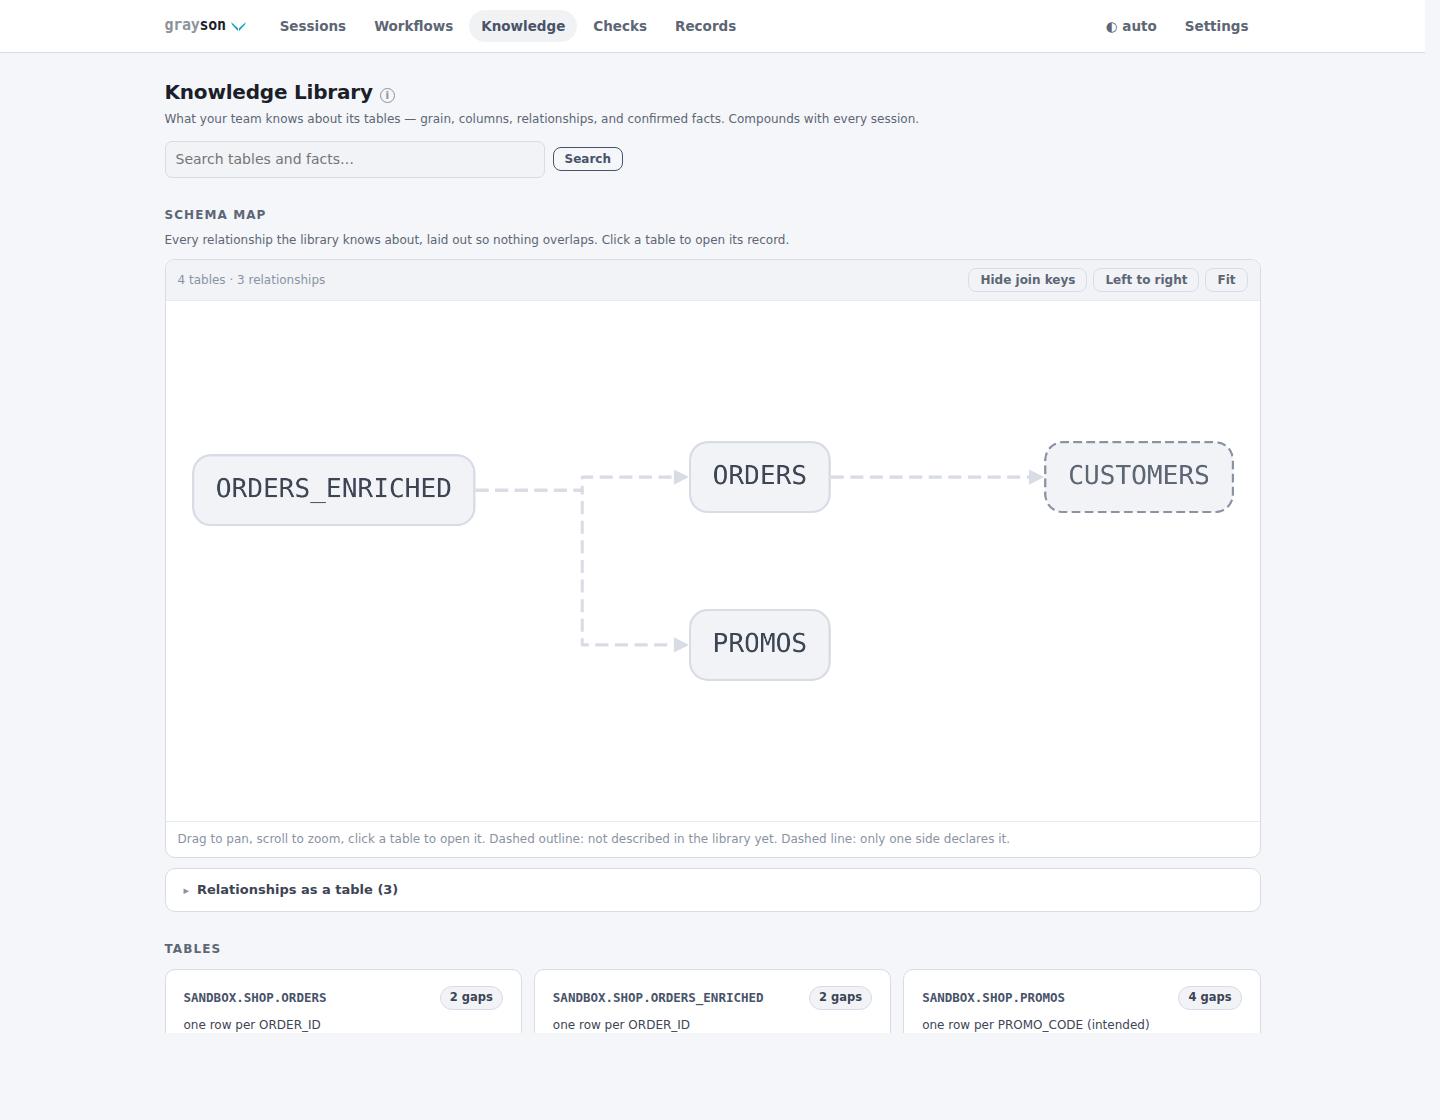
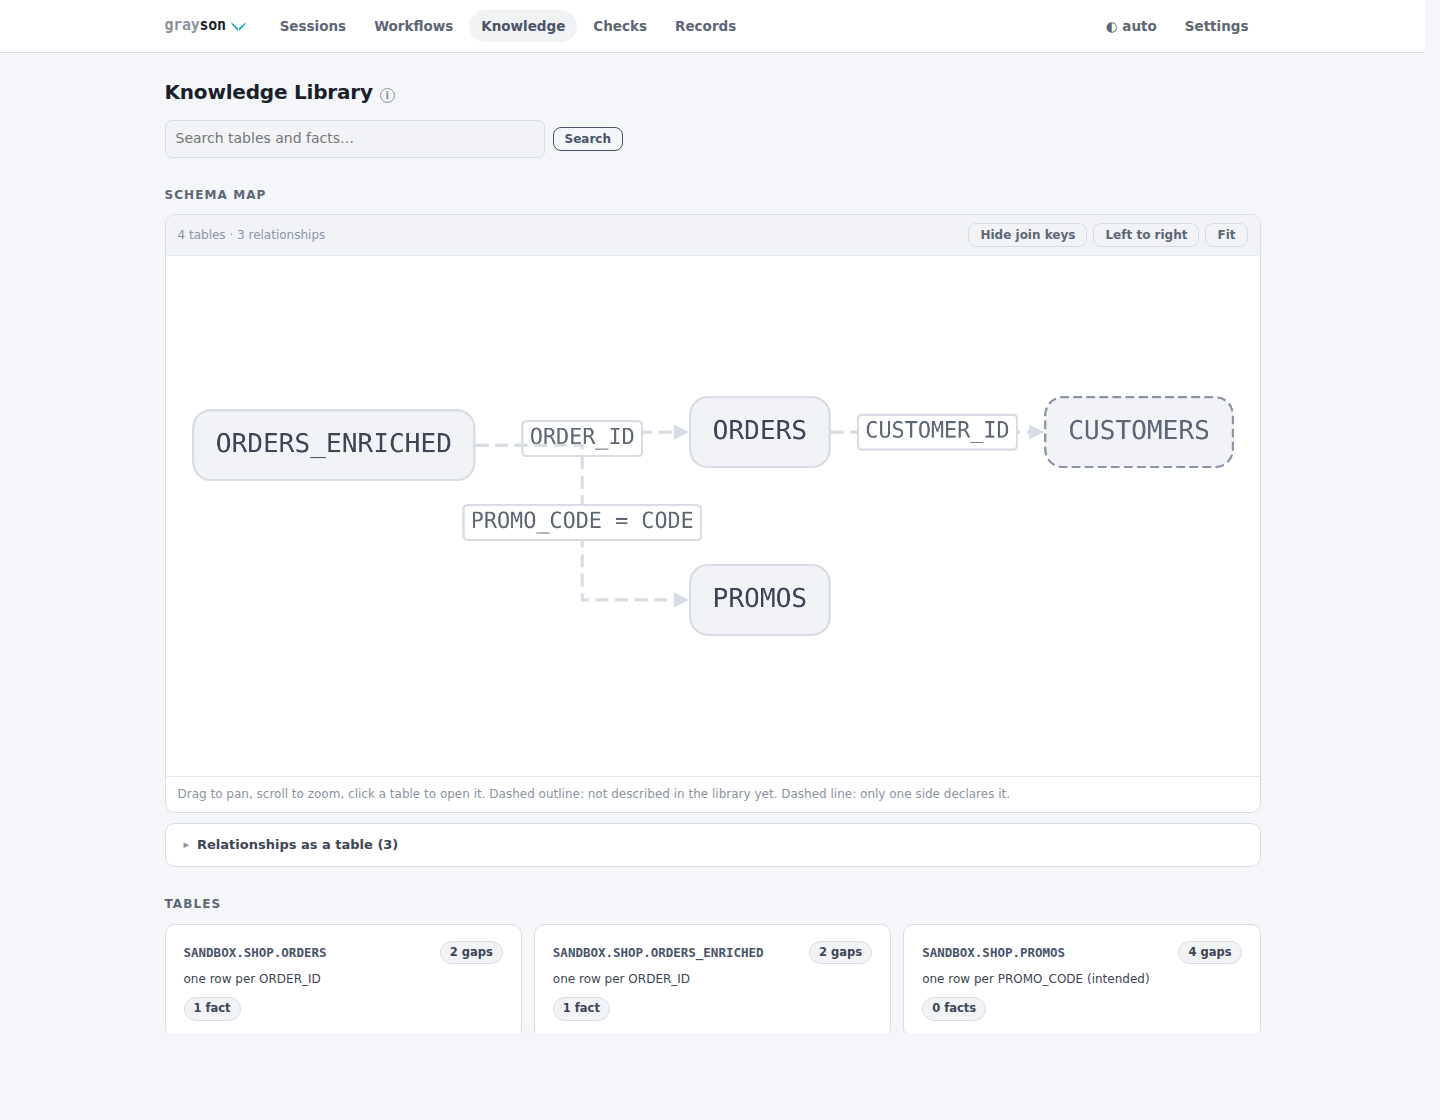
Docs screenshots regenerated for the redesigned console
All six page pairs under docs/img are re-shot from a real sandbox
workspace: a bug-hunter session run with real queries against the seeded
warehouse (charts, an open intervention, evidence-gated checkpoints),
knowledge docs with relationships, ingested external checks, and a forked
team workflow, served by the actual console and captured in both themes.
docs/img/regenerate.py rebuilds the set so the images can follow the UI.

Two layout fixes surfaced while shooting: the gallery card rule now
outranks the generic linked-card rule, so metas sit at card bottoms again;
the session's scope form takes its natural width instead of a full row.

Claude-Session: https://claude.ai/code/session_018Z5a52MQfPQdAJtqR4C6b1

diff --git a/src/grayson/ui/templates/base.html b/src/grayson/ui/templates/base.html
@@ -396,7 +396,7 @@ h1 > .help > .h-pop, h2 > .help > .h-pop { left: 0; transform: none;
 .kv { display: flex; gap: 8px; flex-wrap: wrap; }
 .kv .item { background: var(--panel2); border: 1px solid var(--border-soft);
   border-radius: var(--radius-sm); padding: 5px 10px; font-size: 12.5px; }
-.kv > form.item { flex: 1 1 auto; }   /* a control strip moves to a new row whole, then fills it */
+.kv > form.item { flex: 0 1 auto; }   /* a control strip wraps to a new row whole, at its own width */
 .kv .item b { color: var(--muted); font-weight: 600; font-size: 11px;
   text-transform: uppercase; letter-spacing: .06em; margin-right: 5px; }
 .chip { display: inline-block; background: var(--panel2); border: 1px solid var(--border-soft);

diff --git a/src/grayson/ui/templates/workflows.html b/src/grayson/ui/templates/workflows.html
@@ -2,7 +2,7 @@
 {% block title %}grayson — workflows{% endblock %}
 {% block head %}
 <style>
-.wfcard { display: flex; flex-direction: column; gap: 7px; margin-bottom: 0; }
+.card.wfcard { display: flex; flex-direction: column; gap: 7px; margin-bottom: 0; }
 .wfcard .desc { color: var(--ink-2); font-size: 13px; flex: 1; }
 .wfcard .meta { display: flex; gap: 8px; flex-wrap: wrap; align-items: center;
   border-top: 1px solid var(--border-soft); padding-top: 9px; font-size: 12px;

diff --git a/src/grayson/ui/templates/session.html b/src/grayson/ui/templates/session.html
@@ -100,7 +100,7 @@
     <b>Also in scope</b>
     <span class="mono small">{{ s.scope_extra | join(", ") or "—" }}</span>
     <input type="text" name="tables" placeholder="DB.SCHEMA.TABLE, ..." required
-           style="width: auto; flex: 1 1 220px;">
+           style="width: 260px;">
     <button class="btn secondary sm" type="submit">Widen</button> {{ help("scope") }}
   </form>
   {% else %}

diff --git a/docs/img/regenerate.py b/docs/img/regenerate.py
@@ -1,0 +1,315 @@
+"""Regenerate the console screenshots under docs/img.
+
+Builds a bug-hunter session against the seeded sandbox warehouse (real
+queries, real charts), knowledge docs, external checks and a team workflow,
+serves the console with the real server, and screenshots each page in both
+themes with headless Chromium.
+
+    uv run python docs/img/regenerate.py            # writes docs/img/*.png
+    GRAYSON_CHROME=/path/to/chrome uv run python docs/img/regenerate.py
+
+The demo workspace is built under a throwaway directory and removed afterwards.
+"""
+
+from __future__ import annotations
+
+import json
+import os
+import shutil
+import subprocess
+import sys
+import threading
+import time
+import urllib.request
+from pathlib import Path
+
+OUT = Path(sys.argv[1]) if len(sys.argv) > 1 else Path(__file__).resolve().parent
+OUT.mkdir(parents=True, exist_ok=True)
+TOKEN = "docs-shot"
+PORT = 8799
+CHROME = os.environ.get("GRAYSON_CHROME", "chromium")
+
+tmp = Path.home() / "shop-qa"  # a readable workspace root for the Settings page
+shutil.rmtree(tmp, ignore_errors=True)
+tmp.mkdir()
+os.environ["GRAYSON_CONFIG_DIR"] = str(tmp / "cfg")
+os.environ["GRAYSON_USER_ID"] = "kcg"
+
+from grayson.charts.spec import add_chart  # noqa: E402
+from grayson.checks import ChecksStore  # noqa: E402
+from grayson.cli import SANDBOX_CONFIG  # noqa: E402
+from grayson.core import engine  # noqa: E402
+from grayson.core.run import run_statement  # noqa: E402
+from grayson.core.session import Session  # noqa: E402
+from grayson.interventions import build_request  # noqa: E402
+from grayson.knowledge import KnowledgeStore  # noqa: E402
+from grayson.sandbox.executor import SandboxExecutor, sandbox_db_path  # noqa: E402
+from grayson.sandbox.seed import seed_sandbox  # noqa: E402
+from grayson.ui.server import build_app  # noqa: E402
+from grayson.workflows.authoring import create_workflow  # noqa: E402
+from grayson.workspace import Workspace  # noqa: E402
+
+# -- workspace + warehouse ------------------------------------------------
+ws = Workspace.init(tmp / "workspace")
+(ws.root / "grayson.toml").write_text(SANDBOX_CONFIG, encoding="utf-8")
+seed_sandbox(sandbox_db_path(ws.root))
+ws = Workspace(ws.root)  # re-read config
+ex = SandboxExecutor(sandbox_db_path(ws.root))
+
+T = "SANDBOX.SHOP.ORDERS_ENRICHED"
+
+# -- session ----------------------------------------------------------------
+s = Session.create(
+    ws,
+    workflow="bug-hunter",
+    targets=[T],
+    guard=ws.config.guard_profiles["moderate"].model_copy(),
+    guard_profile="moderate",
+    title="Duplicated revenue rows in ORDERS_ENRICHED",
+)
+engine.seed_from_workflow(s)
+s.set_setup_inputs(
+    {
+        "anomaly_description": "Revenue summed from ORDERS_ENRICHED runs ~13% above ORDERS "
+        "for the same period; finance noticed on the August close.",
+        "example_locator": "ORDER_ID 1042 appears twice in ORDERS_ENRICHED.",
+        "expectation": "One row per ORDER_ID; row counts match ORDERS exactly.",
+    }
+)
+
+
+def q(sql: str, label: str) -> str:
+    out = run_statement(s, sql, worker="agent", label=label, executor=ex)
+    if out["status"] != "executed":
+        print("QUERY FAILED", label, out, file=sys.stderr)
+        sys.exit(1)
+    return out["qid"]
+
+
+q1 = q(
+    f"SELECT COUNT(*) AS ROWS_ENRICHED, COUNT(DISTINCT ORDER_ID) AS ORDER_IDS FROM {T}",
+    "row count vs distinct order ids",
+)
+q2 = q("SELECT COUNT(*) AS ROWS_SOURCE FROM SANDBOX.SHOP.ORDERS", "source row count")
+q3 = q(
+    f"SELECT PROMO_CODE, COUNT(*) - COUNT(DISTINCT ORDER_ID) AS EXTRA_ROWS FROM {T} "
+    "GROUP BY PROMO_CODE HAVING COUNT(*) - COUNT(DISTINCT ORDER_ID) > 0 ORDER BY EXTRA_ROWS DESC",
+    "which promo codes fan out",
+)
+q4 = q(
+    "SELECT CODE, COUNT(*) AS ISSUES FROM SANDBOX.SHOP.PROMOS GROUP BY CODE HAVING COUNT(*) > 1",
+    "non-unique join keys in PROMOS",
+)
+q5 = q(
+    f"SELECT ORDER_ID, COUNT(*) AS N FROM {T} GROUP BY ORDER_ID HAVING COUNT(*) > 1 "
+    "ORDER BY ORDER_ID LIMIT 25",
+    "sample of duplicated order ids",
+)
+q6 = q(
+    f"SELECT ORDER_DATE AS DAY, COUNT(*) - COUNT(DISTINCT ORDER_ID) AS INFLATED_ROWS FROM {T} "
+    "GROUP BY ORDER_DATE ORDER BY ORDER_DATE",
+    "inflation by order day",
+)
+q7 = q(
+    f"SELECT STATUS, COUNT(*) - COUNT(DISTINCT ORDER_ID) AS EXTRA_ROWS FROM {T} GROUP BY STATUS",
+    "inflation by order status",
+)
+
+add_chart(
+    s,
+    q6,
+    "line",
+    "DAY",
+    ["INFLATED_ROWS"],
+    "Inflated rows by order day",
+    note="duplication tracks promo usage, not load time",
+)
+add_chart(
+    s,
+    q3,
+    "bar",
+    "PROMO_CODE",
+    ["EXTRA_ROWS"],
+    "Duplicated rows by promo code",
+    note="the fan-out isolates to two codes",
+)
+
+engine.complete_checkpoint(
+    s, "validate_expectation", [q1, q2], "3396 rows vs 3000 orders; expectation holds in ORDERS"
+)
+engine.complete_checkpoint(s, "replicate_anomaly", [q1, q5], "396 order_ids appear twice")
+engine.complete_checkpoint(
+    s, "scope_blast_radius", [q3, q7], "confined to SUMMER25 and FLASH5; every status affected"
+)
+engine.complete_checkpoint(s, "upstream_trace", [q3, q4], "both codes were re-issued in PROMOS")
+
+engine.record_finding(
+    s,
+    {
+        "title": "LEFT JOIN to PROMOS fans out on re-issued codes",
+        "severity": "high",
+        "confidence": "high",
+        "affected_objects": [T, "SANDBOX.SHOP.PROMOS"],
+        "reproduction": "run q_0003 and q_0004",
+        "summary": (
+            "WHY THIS MATTERS: every order that used SUMMER25 or FLASH5 appears twice, so "
+            "revenue and order counts built on ORDERS_ENRICHED are inflated. "
+            "BLAST RADIUS: 396 of 3000 orders, across all statuses and the whole period. "
+            "ROOT CAUSE: PROMOS carries two rows for each of those codes (the campaigns were "
+            "re-issued), and the enrichment joins on CODE alone."
+        ),
+        "evidence": [q1, q3, q4],
+        "extra": {
+            "resolution": "root_caused",
+            "blast_radius": "396 orders duplicated (13.2% of rows); SUMMER25 and FLASH5 only",
+            "alternatives_tested": "load-time duplication (no clustering by day, q_0006); "
+            "status-specific handling (every status affected, q_0007)",
+            "root_cause": "non-unique CODE in SANDBOX.SHOP.PROMOS fans out the LEFT JOIN",
+        },
+        "proposed_remediation": "Dedupe PROMOS on CODE (keep the latest issue) or join on "
+        "CODE plus validity window; re-run q_0001 to verify 3000 rows.",
+    },
+    worker="agent",
+)
+
+s.add_intervention(
+    "confirm_semantics",
+    "Are duplicate promo codes ever legitimate in PROMOS?",
+    "Decides whether this is a data defect or a business rule the join must respect.",
+    build_request(
+        "confirm_semantics",
+        {
+            "statement": "A promo code identifies exactly one campaign; a re-issued code is a "
+            "data defect, not a deliberate second campaign.",
+            "context": "SUMMER25 and FLASH5 each have two rows in PROMOS with different "
+            "descriptions and discount rates.",
+            "sample": [
+                {"CODE": "SUMMER25", "DESCRIPTION": "Summer sale", "DISCOUNT_PCT": 25.0},
+                {"CODE": "SUMMER25", "DESCRIPTION": "Summer sale (extended)", "DISCOUNT_PCT": 20.0},
+            ],
+        },
+    ),
+)
+
+# -- knowledge --------------------------------------------------------------
+ks = KnowledgeStore(ws.knowledge_dir)
+ks.set_profile(
+    T,
+    {
+        "grain": "one row per ORDER_ID",
+        "freshness": "rebuilt nightly from ORDERS ⟕ PROMOS",
+        "owners": ["shop-data"],
+        "relationships": [
+            {"to": "SANDBOX.SHOP.ORDERS", "on": "ORDER_ID", "cardinality": "one-to-one"},
+            {"to": "SANDBOX.SHOP.PROMOS", "on": "PROMO_CODE = CODE", "cardinality": "many-to-one"},
+        ],
+    },
+)
+ks.set_profile(
+    "SANDBOX.SHOP.ORDERS",
+    {
+        "grain": "one row per ORDER_ID",
+        "freshness": "appended continuously; complete by 06:00 UTC",
+        "relationships": [
+            {"to": "SANDBOX.SHOP.CUSTOMERS", "on": "CUSTOMER_ID", "cardinality": "many-to-one"},
+        ],
+    },
+)
+ks.set_profile("SANDBOX.SHOP.PROMOS", {"grain": "one row per PROMO_CODE (intended)"})
+ks.add_fact(T, "AMOUNT is gross of discount; DISCOUNT_PCT is informational")
+ks.add_fact("SANDBOX.SHOP.ORDERS", "STATUS 'refunded' orders keep their original AMOUNT")
+
+# -- external checks --------------------------------------------------------
+checks = {
+    "results": [
+        {
+            "check_id": "customers_email_not_null",
+            "status": "fail",
+            "run_at": "2026-09-02T06:00:00Z",
+            "name": "CUSTOMERS.EMAIL not null",
+            "tables": ["SANDBOX.SHOP.CUSTOMERS"],
+            "source": "dbt",
+            "details": "86 rows with NULL email, all signed up on or after 2026-07-15",
+            "ttl_hours": 26,
+        },
+        {
+            "check_id": "orders_enriched_row_parity",
+            "status": "fail",
+            "run_at": "2026-09-02T06:00:00Z",
+            "name": "ORDERS_ENRICHED row parity vs ORDERS",
+            "tables": [T],
+            "source": "airflow",
+            "details": "3396 rows vs 3000 source orders — 396 unexplained extras",
+            "metrics": {"expected": 3000, "actual": 3396},
+            "sql": f"SELECT (SELECT COUNT(*) FROM {T}) - "
+            "(SELECT COUNT(*) FROM SANDBOX.SHOP.ORDERS)",
+            "ttl_hours": 26,
+        },
+        {
+            "check_id": "payments_amount_positive",
+            "status": "pass",
+            "run_at": "2026-09-02T06:00:00Z",
+            "name": "PAYMENTS amounts positive",
+            "tables": ["SANDBOX.SHOP.PAYMENTS"],
+            "source": "dbt",
+            "ttl_hours": 26,
+        },
+        {
+            "check_id": "promos_code_unique",
+            "status": "pass",
+            "run_at": "2026-08-27T06:00:00Z",
+            "name": "PROMOS.CODE unique",
+            "tables": ["SANDBOX.SHOP.PROMOS"],
+            "source": "airflow",
+            "ttl_hours": 26,
+        },
+    ]
+}
+cj = tmp / "checks.json"
+cj.write_text(json.dumps(checks), encoding="utf-8")
+ChecksStore(ws.checks_dir).ingest(cj)
+
+# -- team workflow ----------------------------------------------------------
+create_workflow(ws.workflows_dir, "orders-slim-health", fork_of="table-health", user_id="kcg")
+
+# -- serve + shoot ----------------------------------------------------------
+import uvicorn  # noqa: E402
+
+app = build_app(ws, token=TOKEN)
+server = uvicorn.Server(uvicorn.Config(app, host="127.0.0.1", port=PORT, log_level="warning"))
+threading.Thread(target=server.run, daemon=True).start()
+for _ in range(100):
+    try:
+        urllib.request.urlopen(f"http://127.0.0.1:{PORT}/?t={TOKEN}", timeout=1).read()
+        break
+    except Exception:
+        time.sleep(0.1)
+
+PAGES = [
+    ("session", f"/session/{s.id}", 1500),
+    ("knowledge", "/knowledge", 1120),
+    ("checks", "/checks", 1120),
+    ("workflows", "/workflows", 1500),
+    ("workflow_detail", "/workflows/bug-hunter", 1120),
+    ("settings", "/settings", 1000),
+]
+for name, path, height in PAGES:
+    for theme in ("light", "dark"):
+        args = [
+            CHROME,
+            "--headless=new",
+            "--no-sandbox",
+            "--disable-gpu",
+            "--hide-scrollbars",
+            f"--window-size=1440,{height}",
+            "--virtual-time-budget=6000",
+            f"--screenshot={OUT / f'{name}_{theme}.png'}",
+        ]
+        if theme == "dark":
+            args.append("--force-dark-mode")
+        args.append(f"http://127.0.0.1:{PORT}{path}?t={TOKEN}")
+        subprocess.run(args, check=True, capture_output=True, timeout=120)
+        print("shot", name, theme)
+server.should_exit = True
+shutil.rmtree(tmp, ignore_errors=True)
+print("wrote", len(PAGES) * 2, "screenshots to", OUT)
